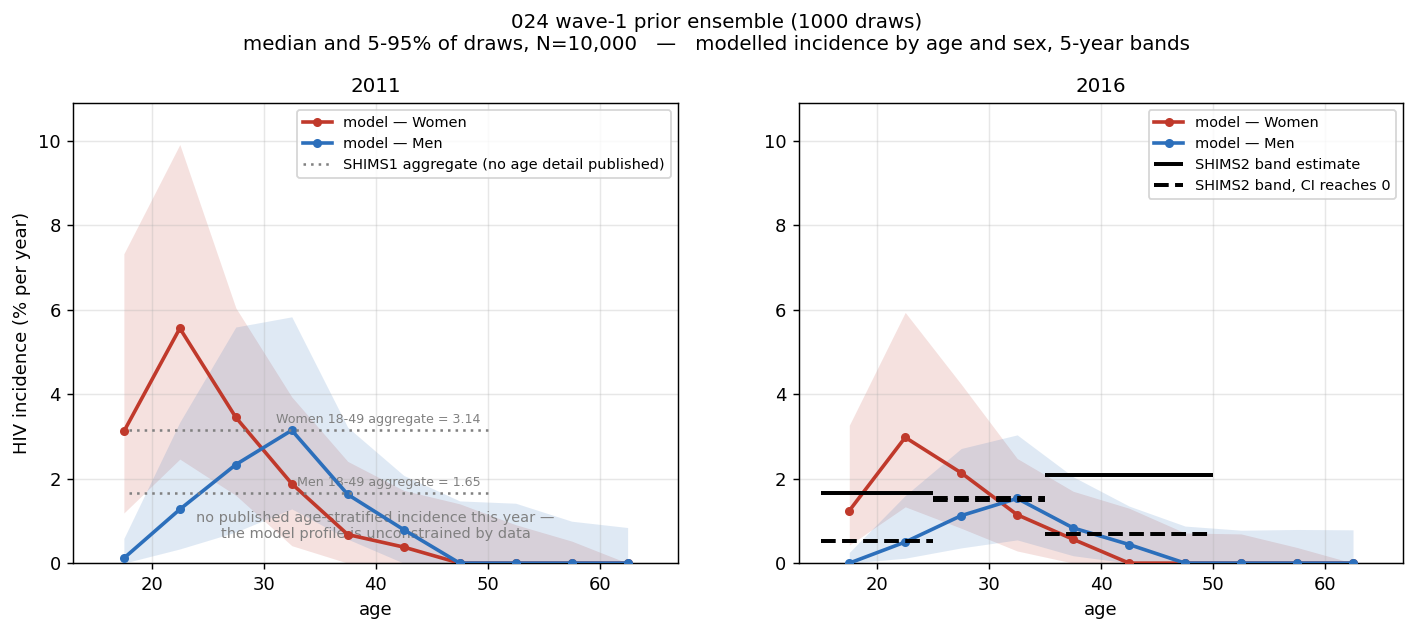
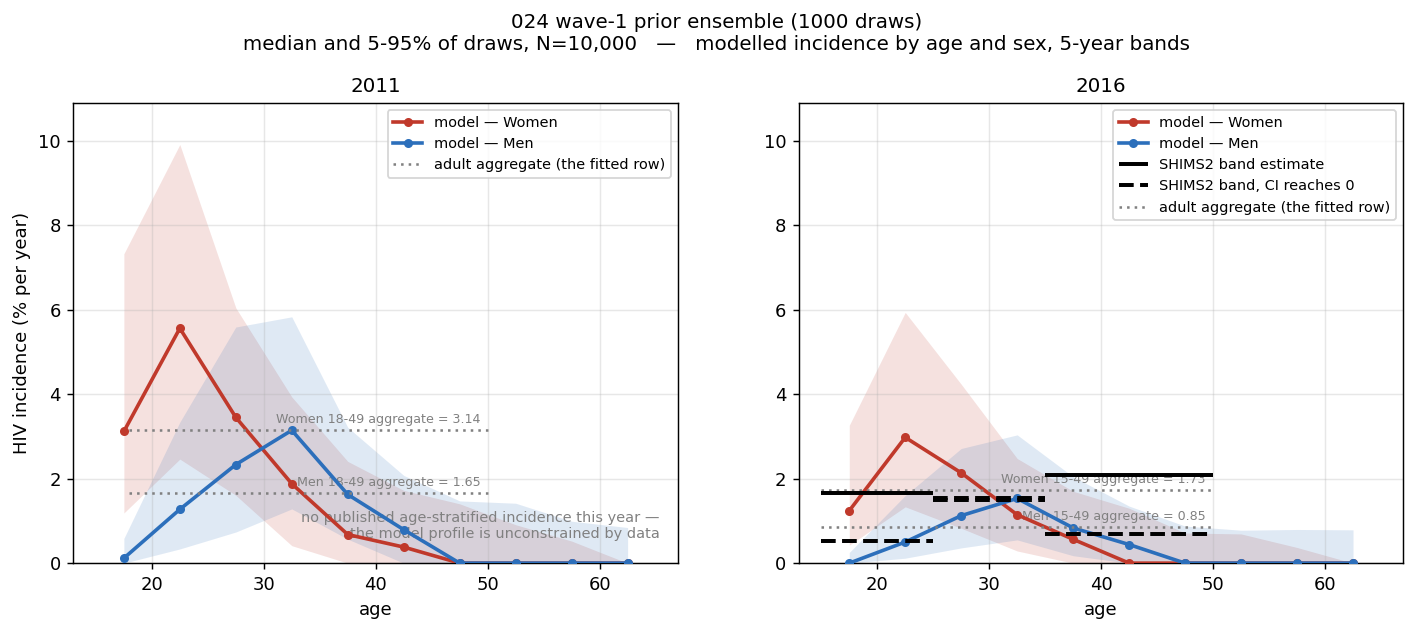
Show the 15-49 vs 18-49 basis mismatch in the figure, not just in sigma
The previous commit widened the 2011 target sigma for the aggregation mismatch
but left the figure overlaying a 15-49 model curve on an 18-49 SHIMS1 point with
no indication. Adam caught it.

The mismatch is sex-dependent, which is why it is worth drawing rather than
noting. Female incidence peaks at 22.5 and is already high at 15-19, so dropping
that group barely moves the average: 3.13 on 15-49 against 3.04 on 20-49. Male
incidence peaks at 32.5 and is near zero at 15-19, so dropping it RAISES the
estimate: 1.51 against 1.88. On the widened sigma that flips the 2011 male
residual from -0.49 to +0.79, a 1.3 sigma swing driven entirely by the age range.

So each aggregate is now annotated with its own age range, and where a point is
not on a 15-49 basis the model's 15-49-to-20-49 bracket is drawn beside it. The
useful consequence is visible immediately: the 1.65 male point sits INSIDE the
bracket, so the model is consistent with it and the apparent residual is smaller
than the aggregation ambiguity either way.

Also fixes two bugs the regenerated target file introduced, both from
load_inc_targets() now returning the aggregates as fitting rows:

- The 2016 age-profile panels drew the 35-year 15-49 aggregate as a fourth age
  band, making a whole-adult average look like a measured stratum. Now filtered
  on span < 25, the same rule the age-profile figure already used.
- The age-profile legend labelled the 2016 aggregates "SHIMS1". They are SHIMS2;
[…]

diff --git a/standard_figures.py b/standard_figures.py
@@ -445,28 +445,67 @@ def plot_incidence_fit(df, label, outpath, kind="arm", tg=None, stamp=None,
         if (hi_b - lo_b).abs().sum() > 0:
             ax.fill_between(centre.index, lo_b.values, hi_b.values,
                             color=cols[sex], alpha=0.15, lw=0, zorder=1)
+    # The curve is 15-49 throughout, but SHIMS1's 2011 estimate is 18-49 and the
+    # model works in 5-year bands, so 18-49 is bracketable but not expressible.
+    # Overlaying the two without saying so is unfair in a sex-dependent
+    # direction: female incidence is already high at 15-19 so dropping that
+    # group barely moves the average, while male incidence is near zero there so
+    # dropping it RAISES the male estimate materially -- enough to flip the sign
+    # of the 2011 male residual. So where a data point is not on a 15-49 basis,
+    # draw the model's own bracket for that year.
+    mismatch = False
     for _, r in agg.iterrows():
         ax.errorbar(r.Year, r.Inc,
                     yerr=[[r.Inc - r.Inc_lb], [r.Inc_ub - r.Inc]],
                     fmt="s", mfc=cols[r.sex], mec="black", mew=1.3, ms=9,
                     ecolor="black", elinewidth=1.4, capsize=4, zorder=6,
                     label="_nolegend_")
-        ax.annotate(f"{r.Inc:.2f}", (r.Year, r.Inc), textcoords="offset points",
-                    xytext=(9, -3), fontsize=7.5, color="black")
+        ax.annotate(f"{r.Inc:.2f}  {r.AgeCat}", (r.Year, r.Inc),
+                    textcoords="offset points", xytext=(10, -3), fontsize=7,
+                    color="black")
+        lo_age = int(str(r.AgeCat).split("-")[0])
+        if lo_age == 15:
+            continue
+        mismatch = True
+        brack = []
+        for a in (15, 20):     # 5-year bands cannot express 18; bracket it
+            s = _inc_series(df[np.floor(df.timevec) == r.Year], sex=r.sex,
+                            lo=a, hi=50)
+            if s is None or not len(s):
+                continue
+            v = s.dropna()
+            brack.append(v.median() if kind == "ensemble" else v.mean())
+        if len(brack) == 2:
+            x = r.Year - 0.8
+            ax.vlines(x, min(brack), max(brack), color=cols[r.sex], lw=3.5,
+                      alpha=0.9, zorder=7)
+            ax.hlines([min(brack), max(brack)], x - 0.45, x + 0.45,
+                      color=cols[r.sex], lw=2, zorder=7)
+            ax.annotate(f"{min(brack):.2f}–{max(brack):.2f}", (x, min(brack)),
+                        textcoords="offset points", xytext=(-3, -11),
+                        ha="right", fontsize=7, color=cols[r.sex])
     ax.errorbar([], [], fmt="s", mfc="white", mec="black", mew=1.3, ms=9,
                 ecolor="black", capsize=4, label="SHIMS estimate (95% CI)")
+    if mismatch:
+        ax.vlines([], [], [], color="grey", lw=3.5,
+                  label="model 15-49 to 20-49 bracket")
     ax.axvline(cutoff, ls=":", c="grey", lw=1.2)
     ax.annotate(f"curve stops at {cutoff:.0f}", (cutoff, 0),
                 textcoords="offset points", xytext=(-5, 12), ha="right",
                 fontsize=7.5, color="grey", rotation=90)
     ax.set_xlabel("year"); ax.set_ylabel("HIV incidence (% per year)")
-    ax.set_title("Incidence 15-49 by sex\n2011 point is SHIMS1 18-49; 2016 is "
-                 "SHIMS2 15-49", fontsize=9.5)
-    ax.legend(fontsize=8, loc="upper right"); ax.set_ylim(bottom=0)
+    ax.set_title("Incidence by sex — model curve is 15-49\n"
+                 "2011 point is SHIMS1 18-49, so compare it to the bracket, "
+                 "not the curve", fontsize=9.5)
+    ax.legend(fontsize=7.5, loc="upper right"); ax.set_ylim(bottom=0)
     ax.grid(alpha=0.3)
 
     # --- Right: the 2016 age profile, one panel per sex --------------------------
-    bands = tg[tg.year == 2016]
+    # `tg` now also carries the 15-49 aggregates as fitting rows, and a 35-year
+    # "band" is an aggregate, not a band -- drawing it here made a whole-adult
+    # average look like a fourth age stratum.
+    bands = tg[(tg.year == 2016) & ((tg.age_high - tg.age_low) < 25)]
+    not_fitted = "fit" in tg.columns and not bands.fit.any() if len(bands) else False
     ymax = 0.0
     for k, sex in enumerate(("f", "m")):
         ax = axes[k + 1]
@@ -497,7 +536,9 @@ def plot_incidence_fit(df, label, outpath, kind="arm", tg=None, stamp=None,
                         ms=8, ecolor="black", capsize=4,
                         label="hollow: CI reaches 0, no information")
         ax.set_xlabel("age"); ax.set_xlim(13, 52)
-        ax.set_title(f"{names[sex]} — 2016 age profile", fontsize=9.5)
+        ax.set_title(f"{names[sex]} — 2016 age profile"
+                     + ("\n(retained for reference — NOT fitted)"
+                        if not_fitted else ""), fontsize=9.5)
         ax.legend(fontsize=7.5, loc="upper right"); ax.grid(alpha=0.3)
         if k == 0:
             ax.set_ylabel("HIV incidence (% per year)")
@@ -572,11 +613,11 @@ def plot_incidence_age_profile(df, label, outpath, years=(2011, 2016),
                           label="SHIMS2 band, CI reaches 0")
         if len(aggregate):
             ax.hlines([], [], [], color="grey", lw=1.4, ls=(0, (1, 2)),
-                      label="SHIMS1 aggregate (no age detail published)")
+                      label="adult aggregate (the fitted row)")
         if not len(banded):
             ax.annotate("no published age-stratified incidence this year —\n"
                         "the model profile is unconstrained by data",
-                        (0.5, 0.055), xycoords="axes fraction", ha="center",
+                        (0.97, 0.055), xycoords="axes fraction", ha="right",
                         fontsize=8, color="grey")
         ax.set_title(f"{year}", fontsize=11)
         ax.set_xlabel("age"); ax.grid(alpha=0.3); ax.legend(fontsize=8)
